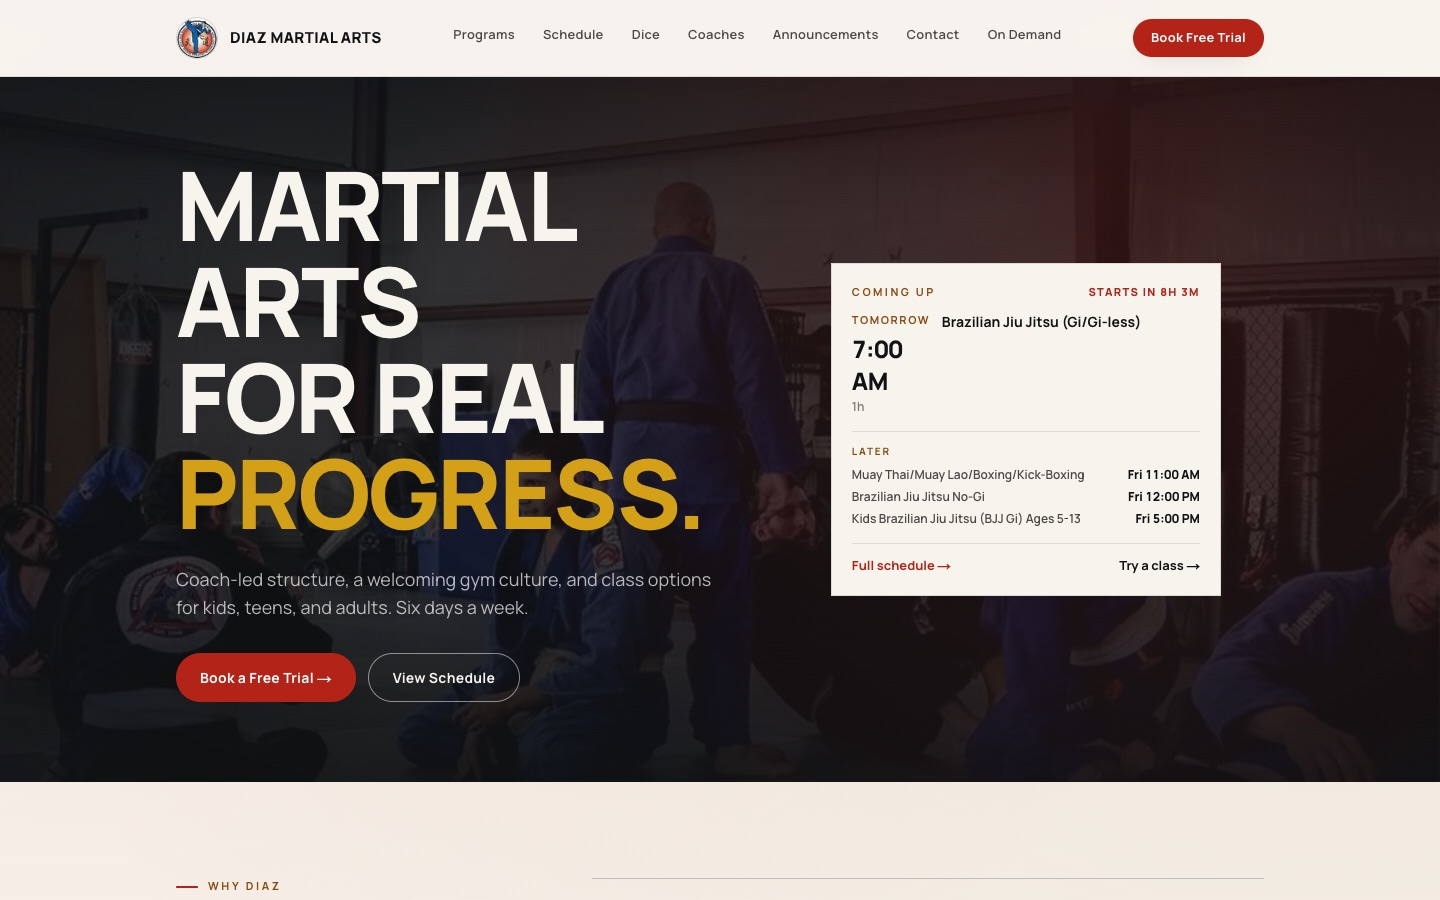
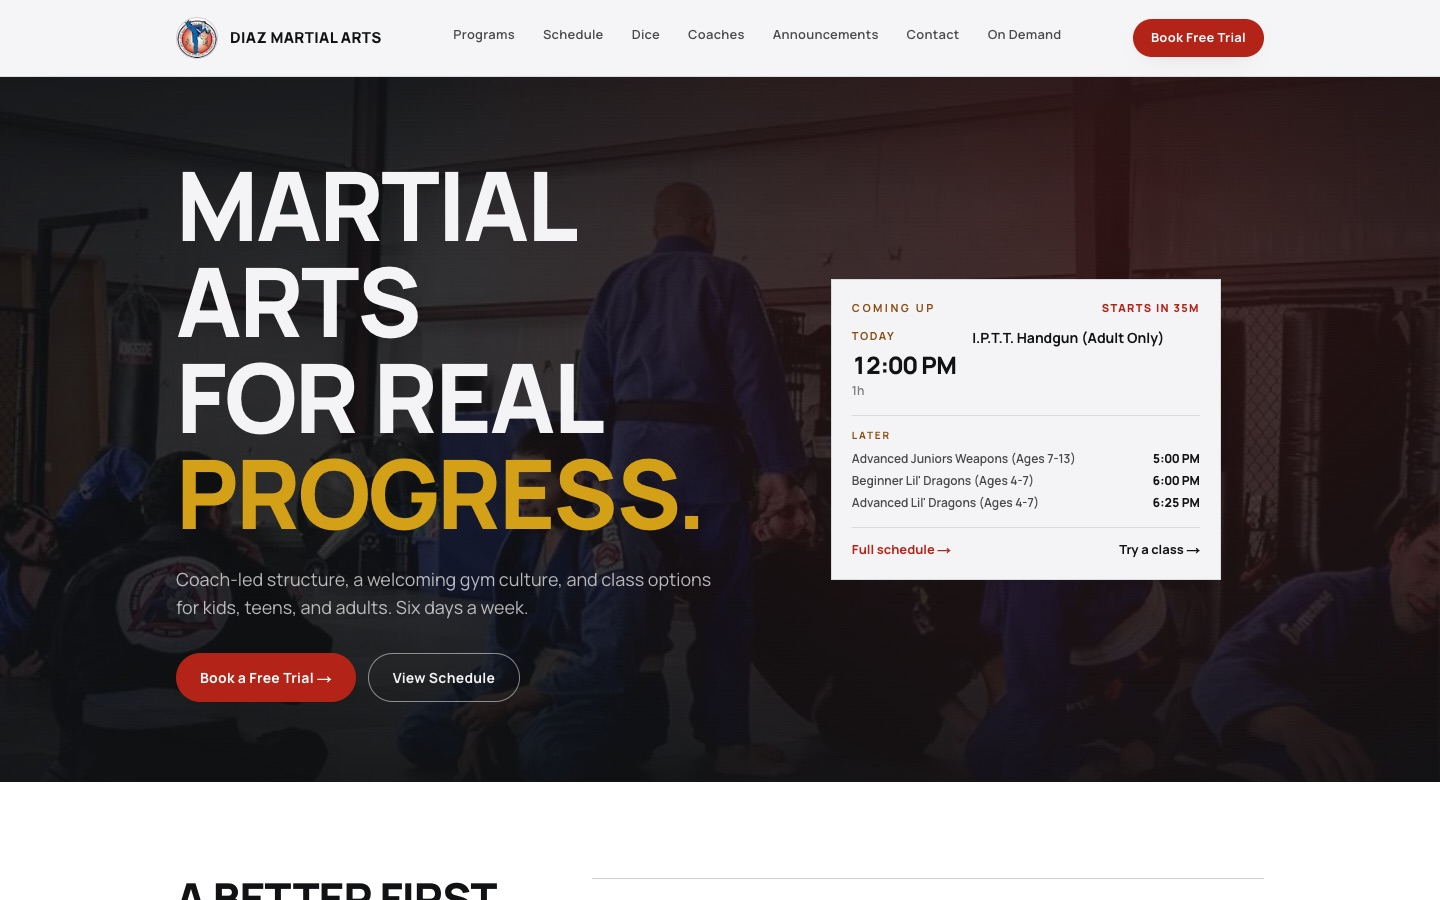
feat(app): replace the tan page background with flat white and neutral gray panels (#65)
* feat(app): replace the tan page background with flat white and cool gray panels

The body painted a warm tan gradient (#f9f5ef to #f4eee5) with red and bronze
radial glows, and the sand/clay panel tokens were warm to match. The owner
read that as generic and picked the Paper direction from a board of four:
flat #ffffff page, no glows, sand #F4F4F5, clay #E4E4E7, --surface-muted
#f4f4f5, and the light text on ink panels moved to the same #F4F4F5. The
Placeholder sand and clay tints and the Crest's light border carry the same
neutrals so no warm literal is left behind.

Type, layout, copy and imagery are unchanged. Every text pair that moves
still clears WCAG AA: the tightest is black at 55% on #F4F4F5 at 4.64:1, and
sand's ratios on the dark hero and ink panels rise by under 0.1 so the
measured figures in app/page.tsx and components/Button.tsx still hold. The
two e2e assertions that pinned the old sand rgb are updated, the README home
screenshot is retaken, and docs/screenshots/background holds before/after
captures of the home and BJJ pages at 1440 and 390 for review.

The CLAUDE.md and AGENTS.md contrast note assumed a gradient body; it now
records that flat surfaces are a nominal check and the hero and CTA card
still need the rendered measurement.

* no-mistakes(review): Remove unreferenced before/after background comparison screenshots

* no-mistakes(document): Update sand contrast ratios for the new neutral token

diff --git a/app/globals.css b/app/globals.css
@@ -5,7 +5,7 @@
 :root {
   color-scheme: light;
   --surface: #ffffff;
-  --surface-muted: #f5efe7;
+  --surface-muted: #f4f4f5;
   --text-primary: #101214;
   --text-muted: rgba(16, 18, 20, 0.72);
 }
@@ -16,10 +16,7 @@ body {
 }
 
 body {
-  background:
-    radial-gradient(circle at 6% -4%, rgba(180, 35, 24, 0.1), transparent 34%),
-    radial-gradient(circle at 92% 4%, rgba(138, 75, 16, 0.1), transparent 37%),
-    linear-gradient(180deg, #f9f5ef 0%, #f6f1e9 58%, #f4eee5 100%);
+  background: #ffffff;
   color: var(--text-primary);
   text-rendering: optimizeLegibility;
 }
@@ -103,8 +100,8 @@ p {
    backdrop lightens as travel proceeds and the worst case sits at full travel
    rather than at rest. Measured at 1440px the 99th-percentile backdrop under
    the headline goes from rgb(53,49,51) at rest to rgb(55,54,56) at full
-   travel, and contrast falls monotonically across the range: sand 11.59:1 to
-   10.87:1, gold 5.40:1 to 5.06:1, white/70 7.14:1 to 6.82:1. The tightest of
+   travel, and contrast falls monotonically across the range: sand 11.66:1 to
+   10.93:1, gold 5.40:1 to 5.06:1, white/70 7.14:1 to 6.82:1. The tightest of
    those is gold, at 5.06:1 against the 3:1 its 96px h1 span needs. What
    carries the AA guarantee is not that direction but the scrim's 82% coverage
    floor, which this change does not touch and which bounds any photo pixel,

diff --git a/app/page.tsx b/app/page.tsx
@@ -97,7 +97,7 @@ export default function HomePage() {
             scrim shows its own floor independent of the photo: the lightest
             backdrop the section can produce anywhere is rgb(69,61,62), to
             within the unit the browser's gradient dithering moves it, giving
-            sand 9.55:1, gold 4.44:1 and white/70 6.14:1. That corrects the
+            sand 9.60:1, gold 4.44:1 and white/70 6.14:1. That corrects the
             optimistic rgb(65,59,60) this comment carried from PR #25, which the
             hero parallax then inherited; the figure was revised deliberately
             rather than drifting. Gold reads under 4.5:1 and still clears AA
@@ -106,7 +106,7 @@ export default function HomePage() {
             under the ember radial, where nothing renders anyway: at 1440px the
             copy stops at x=724 and the right-hand column holds an opaque card.
             Inside the rects where text does sit the worst cases are h1
-            rgb(65,62,62) (sand 9.58:1, gold 4.46:1), subtext rgb(58,58,59)
+            rgb(65,62,62) (sand 9.63:1, gold 4.46:1), subtext rgb(58,58,59)
             (white/70 6.51:1) and buttons rgb(48,47,49) (white/70 7.40:1), so
             nothing renders below AA. The floor is a bound on how much photo
             survives, and it does not depend on layer order: what reaches the

diff --git a/components/Placeholder.tsx b/components/Placeholder.tsx
@@ -16,10 +16,10 @@ type PlaceholderProps = {
 };
 
 const tints: Record<Tint, { a: string; b: string; text: string }> = {
-  sand: { a: '#E9DFD5', b: '#DCD0C2', text: 'rgba(16,18,20,0.55)' },
-  ink: { a: '#1A1F26', b: '#101214', text: 'rgba(247,243,237,0.65)' },
-  ember: { a: '#7A1810', b: '#5C100A', text: 'rgba(247,243,237,0.72)' },
-  clay: { a: '#D4C4B3', b: '#C2B09D', text: 'rgba(16,18,20,0.55)' },
+  sand: { a: '#E4E4E7', b: '#D4D4D8', text: 'rgba(16,18,20,0.55)' },
+  ink: { a: '#1A1F26', b: '#101214', text: 'rgba(244,244,245,0.65)' },
+  ember: { a: '#7A1810', b: '#5C100A', text: 'rgba(244,244,245,0.72)' },
+  clay: { a: '#D4D4D8', b: '#C4C4CA', text: 'rgba(16,18,20,0.55)' },
 };
 
 const DEFAULT_PLACEHOLDER_HEIGHT = 320;

diff --git a/tests/e2e/home.spec.ts b/tests/e2e/home.spec.ts
@@ -83,7 +83,7 @@ test.describe('Home page', () => {
 
     // the copy is only legible over the photo because the section is inverted
     await expect(hero).toHaveCSS('background-color', 'rgb(16, 18, 20)');
-    await expect(page.locator('h1')).toHaveCSS('color', 'rgb(247, 243, 237)');
+    await expect(page.locator('h1')).toHaveCSS('color', 'rgb(244, 244, 245)');
 
     // the oversized image box is held inside a layer of its own, so the section
     // clips nothing and the photo is the only thing cropped

diff --git a/tailwind.config.ts b/tailwind.config.ts
@@ -7,11 +7,11 @@ const config: Config = {
       colors: {
         ink: '#101214',
         ember: '#B42318',
-        sand: '#F7F3ED',
+        sand: '#F4F4F5',
         bronze: '#8A4B10',
         gold: '#D4A017',
         charcoal: '#1A1F26',
-        clay: '#E9DFD5',
+        clay: '#E4E4E7',
       },
       boxShadow: {
         ring: '0 10px 30px -12px rgba(16, 18, 20, 0.35)',

diff --git a/tests/e2e/public-pages.spec.ts b/tests/e2e/public-pages.spec.ts
@@ -130,7 +130,7 @@ test.describe('Program page CTA banner', () => {
         const style = getComputedStyle(el);
         return { color: style.color, border: style.borderTopColor };
       }),
-    ).toEqual({ color: 'rgb(247, 243, 237)', border: 'rgba(255, 255, 255, 0.35)' });
+    ).toEqual({ color: 'rgb(244, 244, 245)', border: 'rgba(255, 255, 255, 0.35)' });
   });
 });
 

diff --git a/components/Crest.tsx b/components/Crest.tsx
@@ -7,7 +7,7 @@ type CrestProps = {
 };
 
 export function Crest({ size = 40, variant = 'dark', className }: CrestProps) {
-  const borderColor = variant === 'light' ? 'rgba(247, 243, 237, 0.7)' : 'rgba(16, 18, 20, 0.18)';
+  const borderColor = variant === 'light' ? 'rgba(244, 244, 245, 0.7)' : 'rgba(16, 18, 20, 0.18)';
 
   return (
     <span

diff --git a/AGENTS.md b/AGENTS.md
@@ -351,17 +351,21 @@ marking work complete or CI fails on unformatted files.
   rebuild, restart dev, or delete `.next/types` before treating it as one. CI
   never sees it because each run starts from a clean checkout.
 
-- Text contrast on this site cannot be checked against a nominal background
-  colour. `body` paints a gradient (`app/globals.css`), so no ancestor carries
-  an opaque `backgroundColor`: walking up the tree for one finds nothing, and
-  `sand` is near but not equal to what any given pixel actually is. Measure the
-  rendered page instead - hide every glyph with
-  `* { color: transparent !important }`, re-screenshot, and scan the whole box
-  behind each run of text for the pixel that MINIMISES the ratio, which for
-  dark type on this light page is the darkest one, not the lightest. The
-  `Rank and certification` list on `/coaches` was sized that way; its tightest
-  runs measure 5.52:1 (bronze rank line) and 5.98:1 (bronze group headings)
-  against AA's 4.5:1.
+- Text contrast on a flat surface here is a nominal check: `body` is flat
+  `#ffffff` and the light panels are flat tokens (`sand`, `clay`,
+  `--surface-muted`), so the colour behind a run of text is the token's. That
+  is recent. Until the white background landed, `body` painted a tan gradient
+  with two radial glows, no ancestor carried an opaque `backgroundColor`, and
+  `sand` was near but not equal to any given pixel, so every ratio recorded
+  before it was measured off the rendered page. Surfaces that still paint a
+  gradient or a photo (the home hero, the CTA banner card) still need that
+  measurement: hide every glyph with `* { color: transparent !important }`,
+  re-screenshot, and scan the whole box behind each run of text for the pixel
+  that MINIMISES the ratio, which for dark type on a light surface is the
+  darkest one, not the lightest. The `Rank and certification` list on
+  `/coaches` was sized that way on the old gradient; its tightest runs
+  measured 5.52:1 (bronze rank line) and 5.98:1 (bronze group headings)
+  against AA's 4.5:1, and bronze on flat white is 6.79:1.
 
 - A `.display` heading is one long word away from scrolling the whole page
   sideways, and no test on this site sees it until one is written for that

diff --git a/CLAUDE.md b/CLAUDE.md
@@ -351,17 +351,21 @@ marking work complete or CI fails on unformatted files.
   rebuild, restart dev, or delete `.next/types` before treating it as one. CI
   never sees it because each run starts from a clean checkout.
 
-- Text contrast on this site cannot be checked against a nominal background
-  colour. `body` paints a gradient (`app/globals.css`), so no ancestor carries
-  an opaque `backgroundColor`: walking up the tree for one finds nothing, and
-  `sand` is near but not equal to what any given pixel actually is. Measure the
-  rendered page instead - hide every glyph with
-  `* { color: transparent !important }`, re-screenshot, and scan the whole box
-  behind each run of text for the pixel that MINIMISES the ratio, which for
-  dark type on this light page is the darkest one, not the lightest. The
-  `Rank and certification` list on `/coaches` was sized that way; its tightest
-  runs measure 5.52:1 (bronze rank line) and 5.98:1 (bronze group headings)
-  against AA's 4.5:1.
+- Text contrast on a flat surface here is a nominal check: `body` is flat
+  `#ffffff` and the light panels are flat tokens (`sand`, `clay`,
+  `--surface-muted`), so the colour behind a run of text is the token's. That
+  is recent. Until the white background landed, `body` painted a tan gradient
+  with two radial glows, no ancestor carried an opaque `backgroundColor`, and
+  `sand` was near but not equal to any given pixel, so every ratio recorded
+  before it was measured off the rendered page. Surfaces that still paint a
+  gradient or a photo (the home hero, the CTA banner card) still need that
+  measurement: hide every glyph with `* { color: transparent !important }`,
+  re-screenshot, and scan the whole box behind each run of text for the pixel
+  that MINIMISES the ratio, which for dark type on a light surface is the
+  darkest one, not the lightest. The `Rank and certification` list on
+  `/coaches` was sized that way on the old gradient; its tightest runs
+  measured 5.52:1 (bronze rank line) and 5.98:1 (bronze group headings)
+  against AA's 4.5:1, and bronze on flat white is 6.79:1.
 
 - A `.display` heading is one long word away from scrolling the whole page
   sideways, and no test on this site sees it until one is written for that
